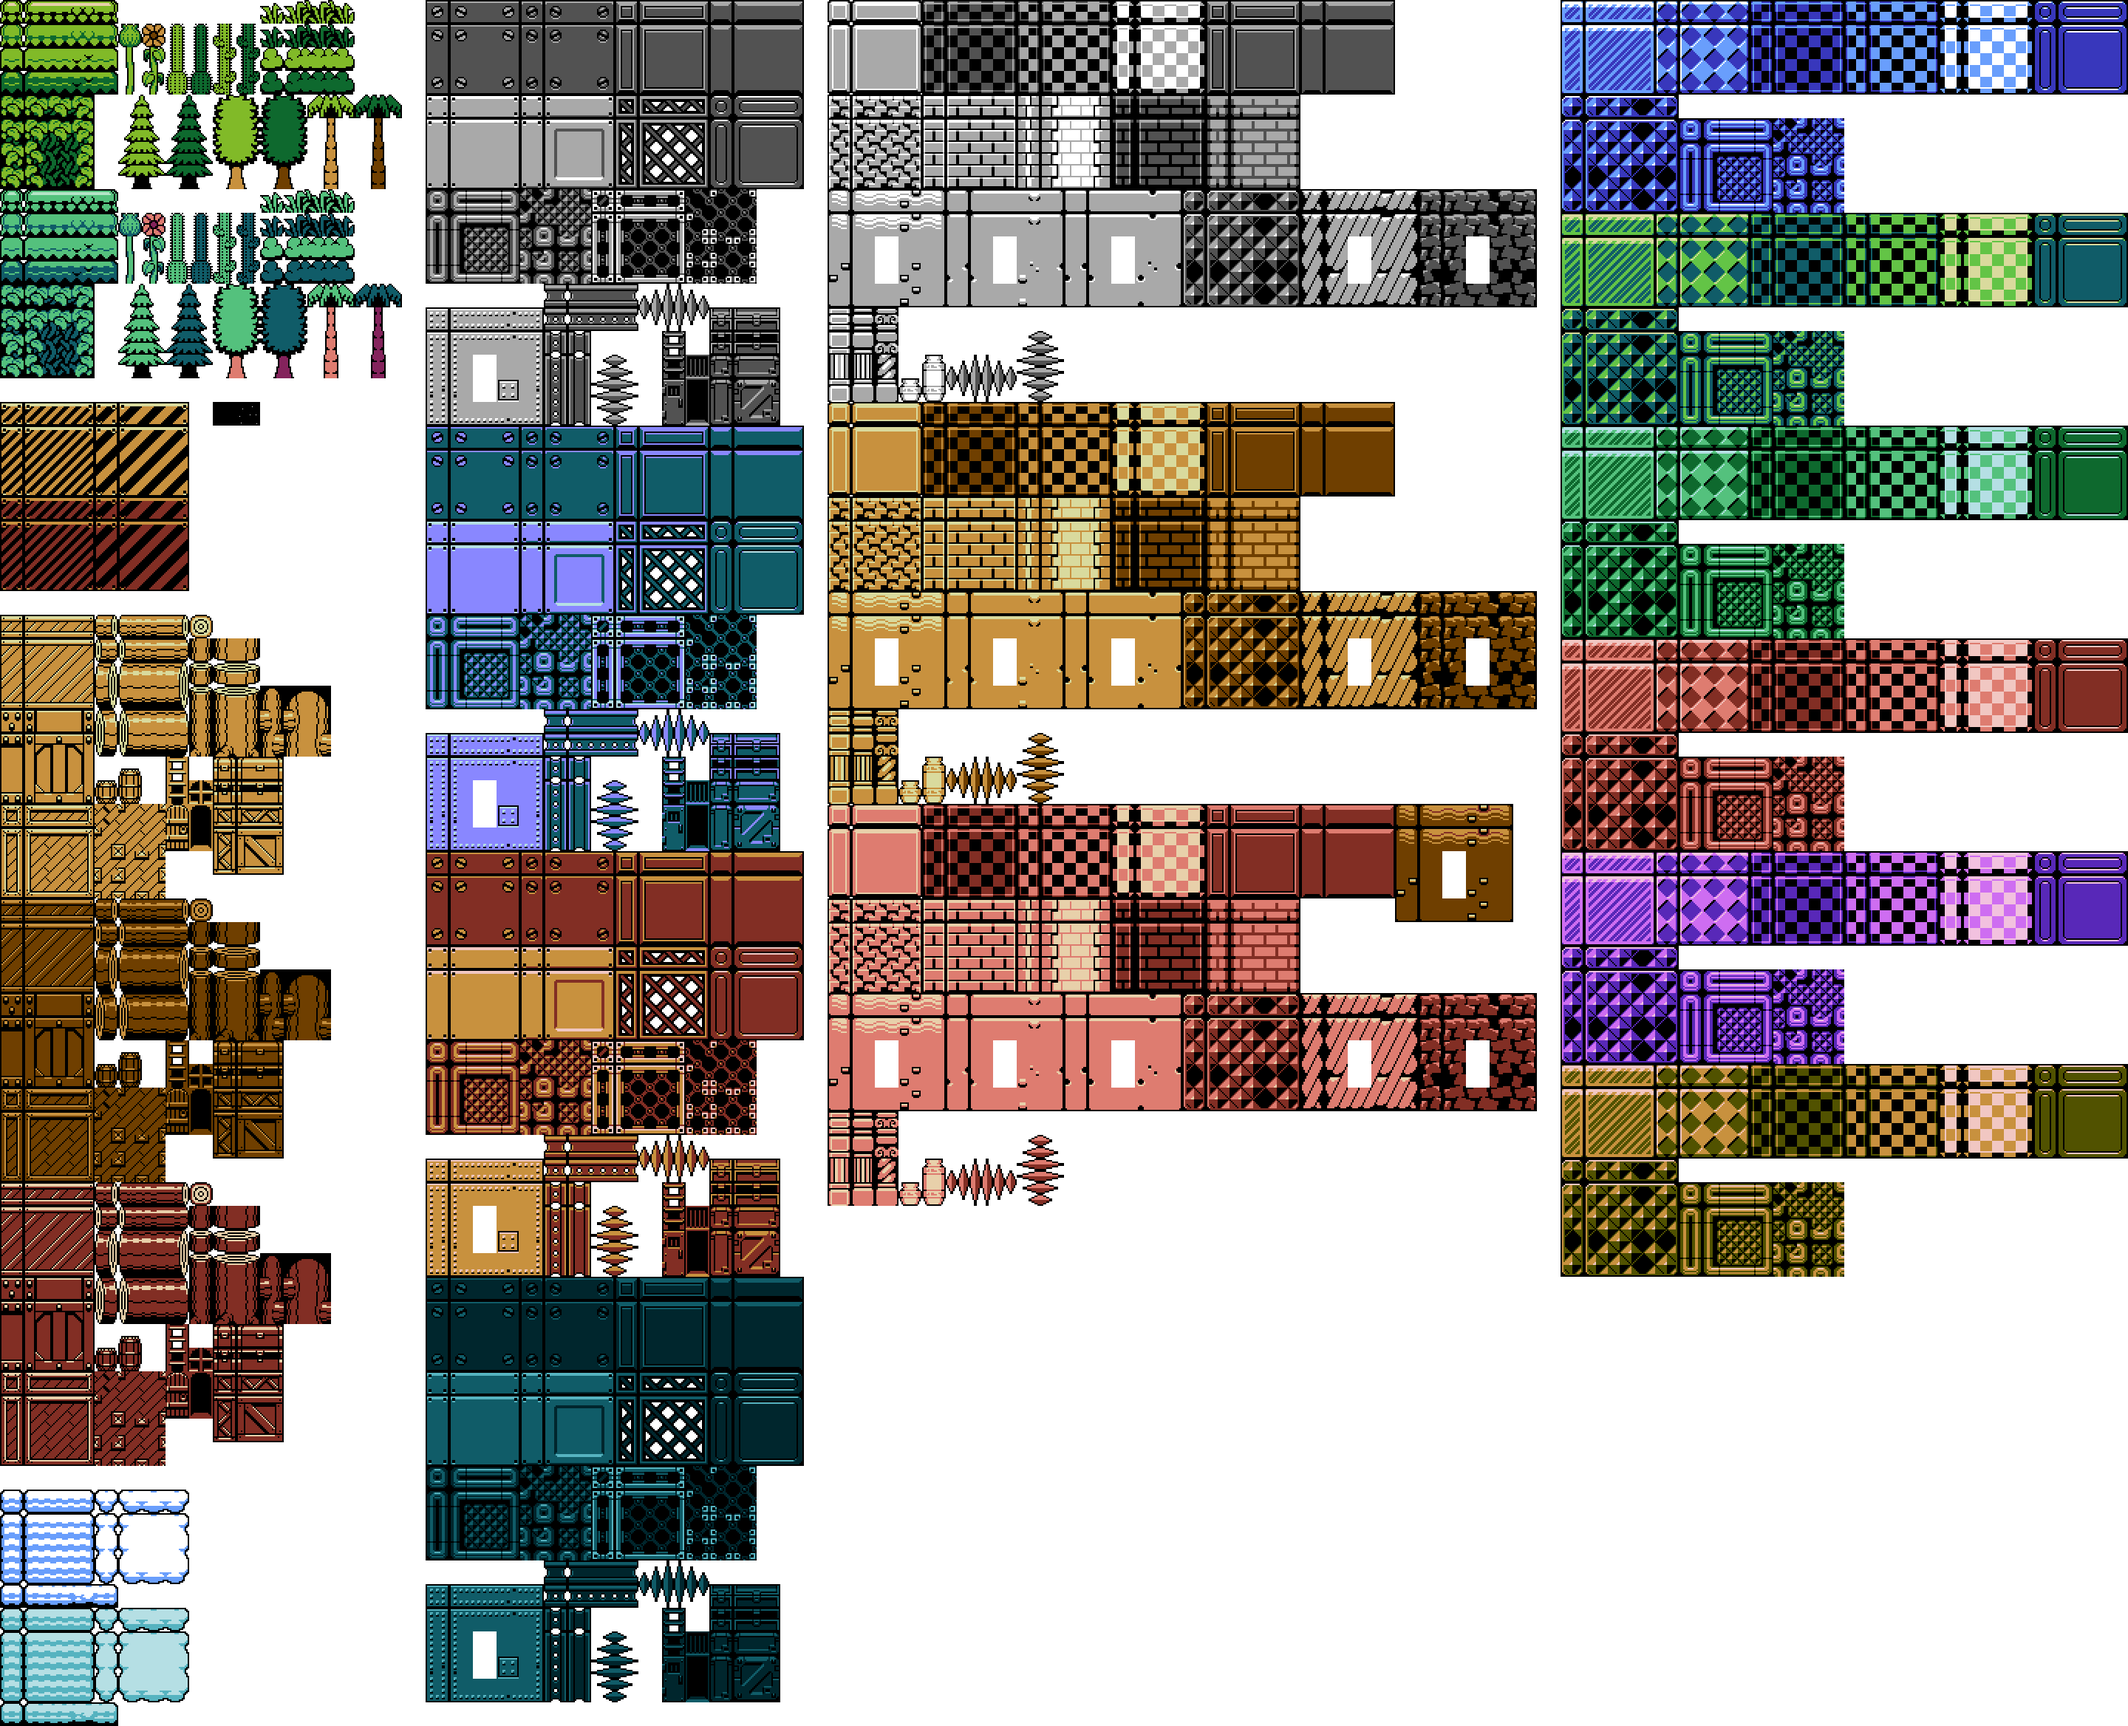
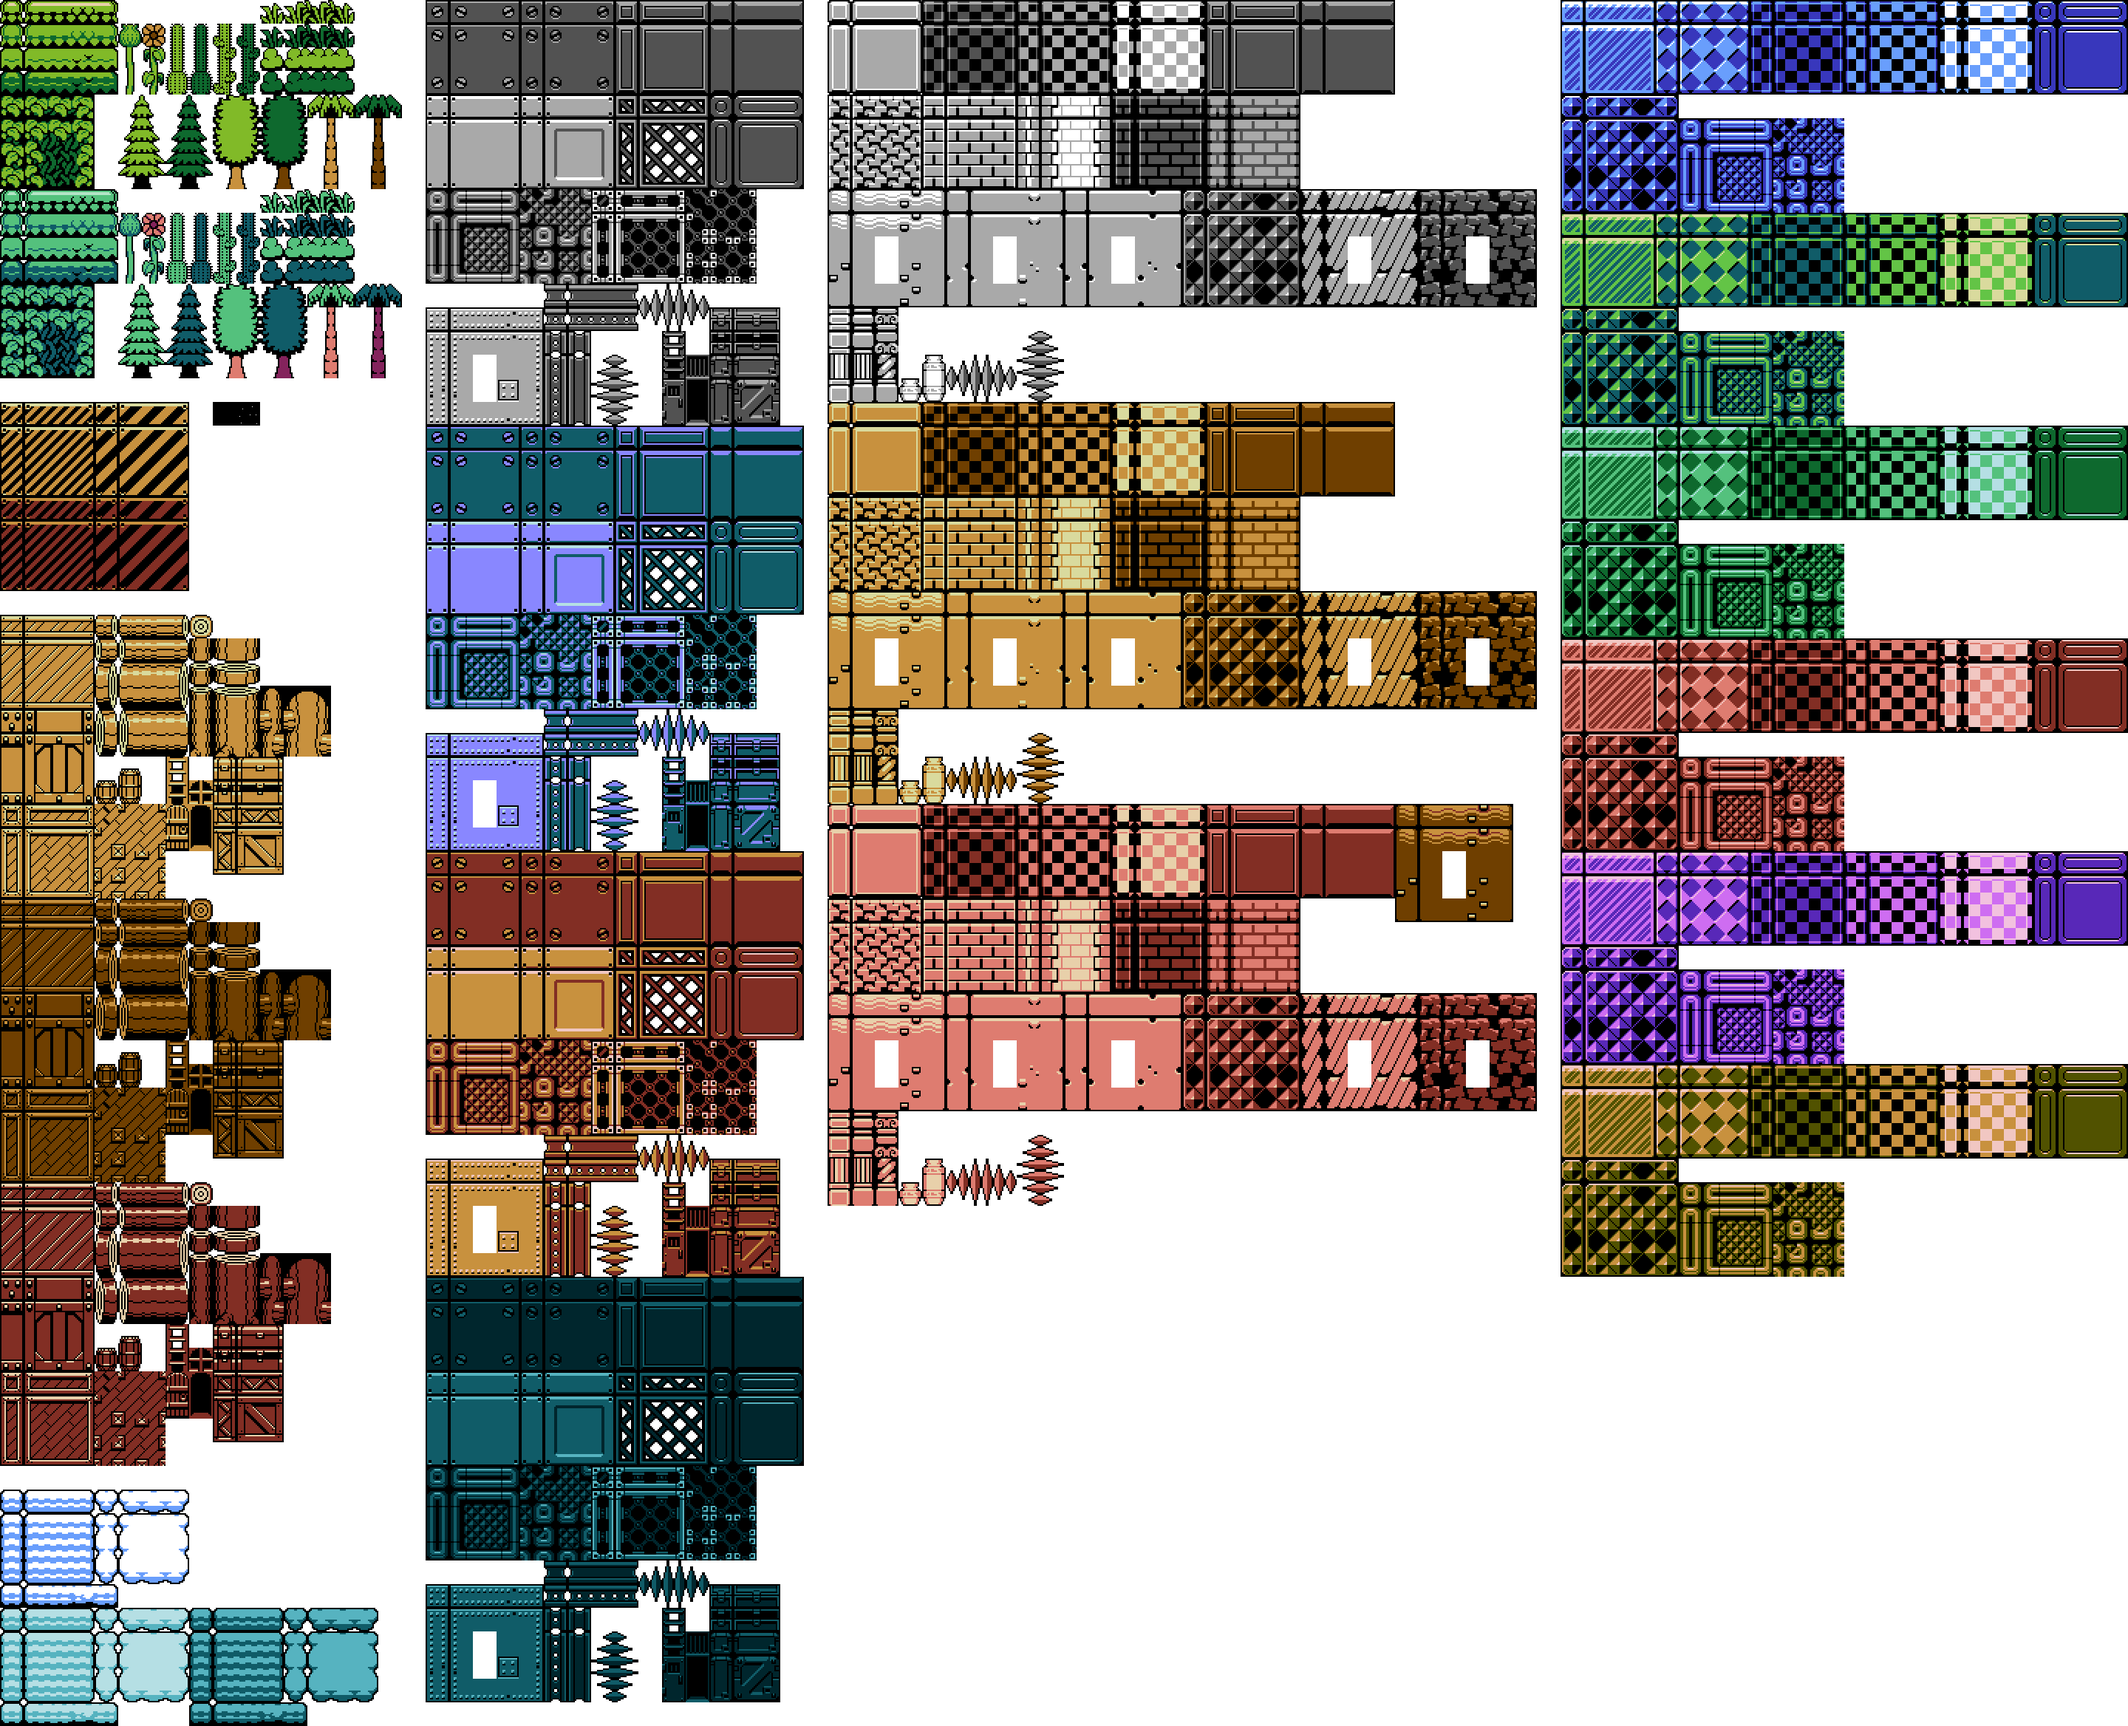
better water level stuff

Changed region(s): [[0.0625, 0.9062, 0.1875, 1.0]]

diff --git a/public/js/stage.js b/public/js/stage.js
@@ -24,6 +24,7 @@ function stage(gs) {
     var bgmusic;
     var jumpSound;
     var thudSound;
+    var swimSound;
     var dieSound;
     
     var cursors;
@@ -208,6 +209,12 @@ function stage(gs) {
         
                 // no animation, use a fixed frame
                 this.animations.stop(null, true);
+
+                if (this.body.velocity.x > 0) {
+                    this.scale.x = 1;
+                } else if (this.body.velocity.x < 0) {
+                    this.scale.x = -1;
+                }
                 
                 if (this.body.velocity.y < 0) {
                     this.frame = 1;
@@ -692,8 +699,9 @@ function stage(gs) {
         bgmusic.loop = true;
         bgmusic.play();
         
-        jumpSound = this.sound.add("jump");
+        jumpSound = (waterLevel ? this.sound.add("swim") : this.sound.add("jump"));
         thudSound = this.sound.add("thud");
+        swimSound = this.sound.add("swim");
         dieSound = this.sound.add("die");
         
         nextFire = this.time.now + FIRE_RATE;

diff --git a/public/js/game.js b/public/js/game.js
@@ -90,7 +90,7 @@ var init = function () {
             this.loadingText = this.add.image(450, 200, "title-loading");
             
             this.load.pack("main", "assets/pack.json");
-
+    
         },
         
         create: function() {
